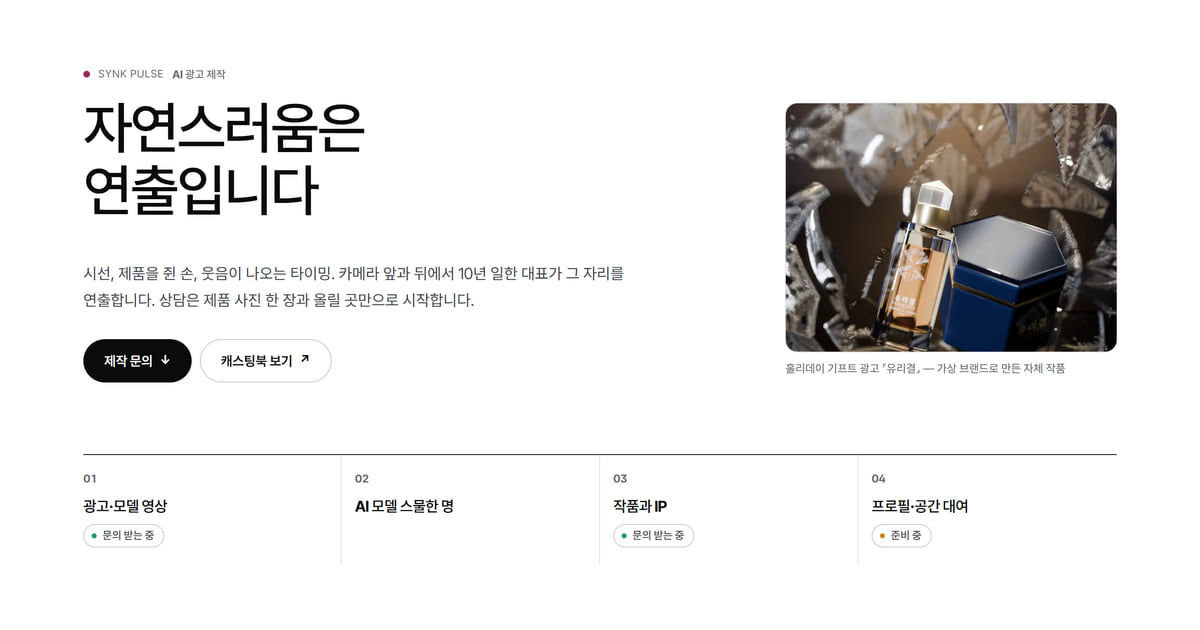
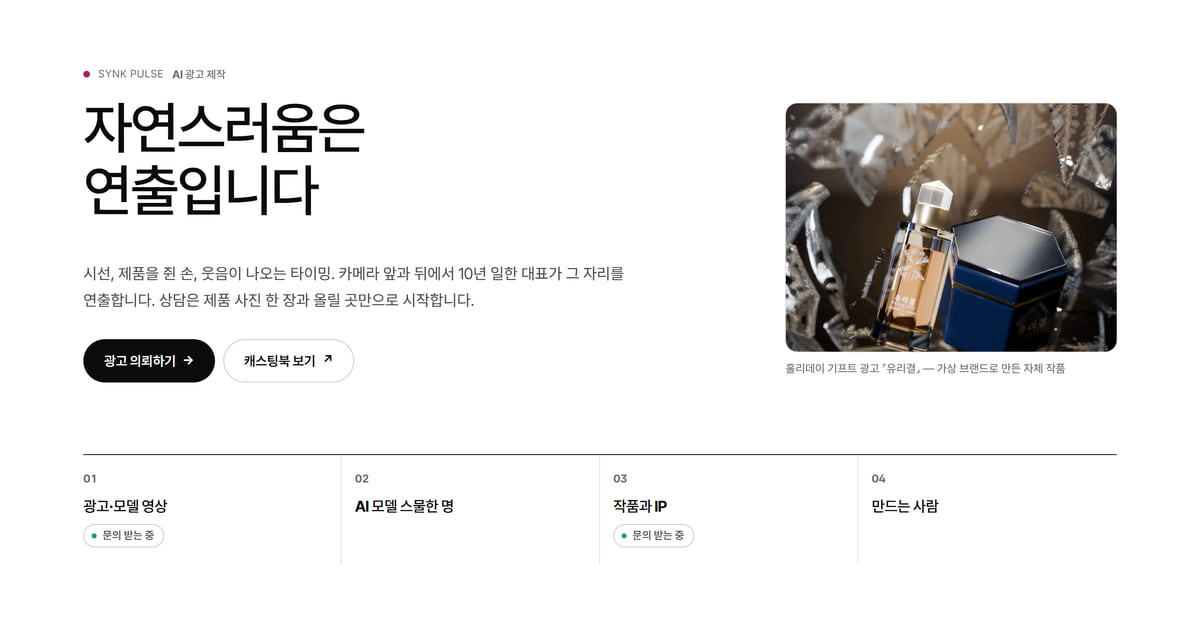
PULSE 마무리 판(2026-11-05 밤): 「이렇게 만듭니다」 1번을 「그 컷의 첫 화면」으로, 「준비 중」 구역을 작품 구역 맨 아래 한 줄로(주소 #soon과 질문창 단추는 그대로), 첫 화면 목차 04를 「만드는 사람」으로, 공유 그림 두 장을 다시 구움. 원고 SYNK-website claude/pulse-wrapup-20261105 0138bd5, 검수 synk-pulse-wrapup-1105 → 1105b(지적 1건 반영 · 마지막 0건)

Changed region(s): [[0.0925, 0.5429, 0.2775, 0.6032], [0.7092, 0.7841, 0.8017, 0.8746]]

diff --git a/pulse/index.html b/pulse/index.html
@@ -10,7 +10,7 @@
 <link rel="canonical" href="https://synk.im/pulse/">
 <link rel="alternate" hreflang="ko" href="https://synk.im/pulse/"><link rel="alternate" hreflang="en" href="https://synk.im/en/pulse/"><link rel="alternate" hreflang="x-default" href="https://synk.im/pulse/">
 <meta property="og:type" content="website"><meta property="og:url" content="https://synk.im/pulse/"><meta property="og:title" content="SYNK PULSE — 자연스러움은 연출입니다 · AI 광고 제작"><meta property="og:description" content="SYNK PULSE는 AI 광고 영상을 만듭니다. 시선과 제품을 쥔 손, 웃음이 나오는 타이밍까지 연출하고, 영상에 들어갈 모든 컷은 만들기 전에 장면 이미지로 먼저 보여 드립니다. 출연자는 AI 모델 스물한 명 가운데 캐스팅하고, 몽글·까몽·마린의 음악과 이야기도 직접 만듭니다.">
-<meta property="og:image" content="https://synk.im/assets/v10/og/pulse-ko.jpg?v=5618fc412231"><meta property="og:image:width" content="1200"><meta property="og:image:height" content="630"><meta property="og:image:alt" content="SYNK PULSE 첫 화면 — 「자연스러움은 연출입니다」와 홀리데이 기프트 광고 「유리결」의 한 장면"><meta name="twitter:card" content="summary_large_image">
+<meta property="og:image" content="https://synk.im/assets/v10/og/pulse-ko.jpg?v=250dd45f88b3"><meta property="og:image:width" content="1200"><meta property="og:image:height" content="630"><meta property="og:image:alt" content="SYNK PULSE 첫 화면 — 「자연스러움은 연출입니다」와 홀리데이 기프트 광고 「유리결」의 한 장면"><meta name="twitter:card" content="summary_large_image">
 <link rel="icon" type="image/png" sizes="16x16" href="/assets/favicon-synk-20260919-16.png"><link rel="icon" type="image/png" sizes="32x32" href="/assets/favicon-synk-20260919-32.png"><link rel="icon" type="image/png" sizes="48x48" href="/assets/favicon-synk-20260919-48.png">
 <link rel="preload" href="/assets/v10/suit-v10.woff2" as="font" type="font/woff2" crossorigin>
 <link rel="stylesheet" href="/assets/v10/site.css?v=17ad44f5ad46">
@@ -23,17 +23,17 @@
 <body data-site="pulse" data-page="pulse">
 <a class="skip" href="#main">본문으로 바로 가기</a>
 <header class="bar" data-bar><div class="bar-inner"><a class="bar-logo" href="/" aria-label="SYNK 첫 화면"><img src="/assets/opt/brand-synk-w144.webp" alt="SYNK" width="144" height="70"></a>
-<nav class="bar-nav" aria-label="주요 메뉴"><a href="#film">영상 제작</a><a href="#models">AI 모델</a><a href="#works">작품과 IP</a><a href="#soon">준비 중</a><a href="#contact">문의</a></nav><span class="bar-sep" aria-hidden="true"></span>
+<nav class="bar-nav" aria-label="주요 메뉴"><a href="#film">영상 제작</a><a href="#models">AI 모델</a><a href="#works">작품과 IP</a><a href="#contact">문의</a></nav><span class="bar-sep" aria-hidden="true"></span>
 <nav class="bar-nav bar-brands" aria-label="사업"><a href="/">SYNK</a><a href="/lab/">LAB</a><a href="/shift/">SHIFT</a><a href="/pulse/" aria-current="page">PULSE</a><a href="/path/">PATH</a></nav><span class="bar-sep" aria-hidden="true"></span>
 <div class="bar-nav bar-lang"><a href="/pulse/" hreflang="ko" lang="ko" aria-current="true">KR</a><a href="/en/pulse/" hreflang="en" lang="en">EN</a></div><a class="bar-cta" href="/account/platform.html#home">내 홈</a>
 <button class="bar-toggle" type="button" aria-expanded="false" aria-controls="bar-panel" data-bar-toggle><span></span><b class="sr-only">메뉴</b></button></div>
-<div class="bar-panel" id="bar-panel" data-bar-panel><div class="panel-group"><a href="#film">영상 제작<span aria-hidden="true">↓</span></a><a href="#models">AI 모델<span aria-hidden="true">↓</span></a><a href="#works">작품과 IP<span aria-hidden="true">↓</span></a><a href="#soon">준비 중<span aria-hidden="true">↓</span></a><a href="#contact">문의<span aria-hidden="true">↓</span></a></div><div class="panel-group"><span class="panel-label"><span class="ko">회사</span></span><a href="/#business">사업 소개<span aria-hidden="true">→</span></a><a href="/atlas/" class="has-sub"><span class="panel-text">아틀라스<small>쓸수록 나에게 맞춰지는 AI 엔진</small></span><span aria-hidden="true">→</span></a><a href="/founder/">창업자<span aria-hidden="true">→</span></a><a href="/#now">소식<span aria-hidden="true">→</span></a><a href="/#platform" class="has-sub"><span class="panel-text">플랫폼<small>SYNK 앱 모음 · PC 앱 받기</small></span><span aria-hidden="true">→</span></a><a href="/#contact">문의<span aria-hidden="true">→</span></a></div><div class="panel-group"><span class="panel-label"><span class="ko">사업</span></span><a href="/lab/" class="has-sub"><span class="panel-text">SYNK LAB<small>한국어·TOPIK 공부</small></span><span aria-hidden="true">→</span></a><a href="/shift/" class="has-sub"><span class="panel-text">SYNK SHIFT<small>AI 특강·업무 자동화</small></span><span aria-hidden="true">→</span></a><a href="/pulse/" class="has-sub"><span class="panel-text">SYNK PULSE<small>광고·영상 제작</small></span><span aria-hidden="true">→</span></a><a href="/path/" class="has-sub"><span class="panel-text">SYNK PATH<small>한국 유학·취업 준비</small></span><span aria-hidden="true">→</span></a></div><div class="panel-row"><a class="" href="/pulse/" hreflang="ko" lang="ko" aria-current="true">KR</a><a class="" href="/en/pulse/" hreflang="en" lang="en">EN</a><a class="dark" href="/account/platform.html#home">내 홈</a></div></div></header>
+<div class="bar-panel" id="bar-panel" data-bar-panel><div class="panel-group"><a href="#film">영상 제작<span aria-hidden="true">↓</span></a><a href="#models">AI 모델<span aria-hidden="true">↓</span></a><a href="#works">작품과 IP<span aria-hidden="true">↓</span></a><a href="#contact">문의<span aria-hidden="true">↓</span></a></div><div class="panel-group"><span class="panel-label"><span class="ko">회사</span></span><a href="/#business">사업 소개<span aria-hidden="true">→</span></a><a href="/atlas/" class="has-sub"><span class="panel-text">아틀라스<small>쓸수록 나에게 맞춰지는 AI 엔진</small></span><span aria-hidden="true">→</span></a><a href="/founder/">창업자<span aria-hidden="true">→</span></a><a href="/#now">소식<span aria-hidden="true">→</span></a><a href="/#platform" class="has-sub"><span class="panel-text">플랫폼<small>SYNK 앱 모음 · PC 앱 받기</small></span><span aria-hidden="true">→</span></a><a href="/#contact">문의<span aria-hidden="true">→</span></a></div><div class="panel-group"><span class="panel-label"><span class="ko">사업</span></span><a href="/lab/" class="has-sub"><span class="panel-text">SYNK LAB<small>한국어·TOPIK 공부</small></span><span aria-hidden="true">→</span></a><a href="/shift/" class="has-sub"><span class="panel-text">SYNK SHIFT<small>AI 특강·업무 자동화</small></span><span aria-hidden="true">→</span></a><a href="/pulse/" class="has-sub"><span class="panel-text">SYNK PULSE<small>광고·영상 제작</small></span><span aria-hidden="true">→</span></a><a href="/path/" class="has-sub"><span class="panel-text">SYNK PATH<small>한국 유학·취업 준비</small></span><span aria-hidden="true">→</span></a></div><div class="panel-row"><a class="" href="/pulse/" hreflang="ko" lang="ko" aria-current="true">KR</a><a class="" href="/en/pulse/" hreflang="en" lang="en">EN</a><a class="dark" href="/account/platform.html#home">내 홈</a></div></div></header>
 <main id="main">
 <section class="p-hero" id="top" aria-labelledby="p-title"><span id="pulse" class="sr-only" aria-hidden="true"></span><span id="worlds" class="sr-only" aria-hidden="true"></span><div class="wrap"><div class="p-hero-grid">
 <div class="p-hero-head"><p class="label"><i class="dot" aria-hidden="true"></i><span class="en">SYNK PULSE</span><span>AI 광고 제작</span></p><h1 class="p-title" id="p-title"><span>자연스러움은</span> <span>연출입니다</span></h1></div>
 <div class="p-hero-copy"><p class="lead">시선, 제품을 쥔 손, 웃음이 나오는 타이밍. 카메라 앞과 뒤에서 10년 일한 대표가 그 자리를 연출합니다. 상담은 제품 사진 한 장과 올릴 곳만으로 시작합니다.</p><div class="btns"><a class="btn btn-dark" href="https://workspace.synk.im/pulse-app/?start=request">광고 의뢰하기 <span class="arr" aria-hidden="true">→</span></a><a class="btn btn-line" href="/pulse/casting/">캐스팅북 보기 <span class="arr" aria-hidden="true">↗</span></a></div></div>
 <figure class="p-hero-media"><div class="p-frame"><img src="/assets/v10/pulse-work-yurigyeol-20261103.webp" srcset="/assets/v10/r/v10-pulse-work-yurigyeol-20261103-w320.webp 320w, /assets/v10/r/v10-pulse-work-yurigyeol-20261103-w480.webp 480w, /assets/v10/r/v10-pulse-work-yurigyeol-20261103-w800.webp 800w, /assets/v10/r/v10-pulse-work-yurigyeol-20261103-w1304.webp 1304w" sizes="(max-width:620px) 92vw, (max-width:900px) 560px, 400px" alt="흩날리는 유리 조각 사이에 선 「유리결」 세럼 병과 남색 육각 상자. 홀리데이 기프트 광고 「유리결」의 한 장면" width="1304" height="978" decoding="async" fetchpriority="high"></div><figcaption>홀리데이 기프트 광고 「유리결」 — 가상 브랜드로 만든 자체 작품</figcaption></figure></div>
-<nav class="p-index reveal" style="--n:4" aria-label="이 페이지에서"><a href="#film"><span class="p-index-no" aria-hidden="true">01</span><b>광고·모델 영상</b><span class="status">문의 받는 중</span></a><a href="#models"><span class="p-index-no" aria-hidden="true">02</span><b>AI 모델 스물한 명</b></a><a href="#works"><span class="p-index-no" aria-hidden="true">03</span><b>작품과 IP</b><span class="status">문의 받는 중</span></a><a href="#soon"><span class="p-index-no" aria-hidden="true">04</span><b>프로필·공간 대여</b><span class="status soon">준비 중</span></a></nav></div></section><section class="section" id="film" aria-labelledby="film-title"><span id="pulse-studio" class="sr-only" aria-hidden="true"></span><span id="pulse-purpose" class="sr-only" aria-hidden="true"></span><span id="pulse-brief" class="sr-only" aria-hidden="true"></span><span id="pulse-offer-1" class="sr-only" aria-hidden="true"></span><span id="pulse-offer-2" class="sr-only" aria-hidden="true"></span><span id="pulse-offer-3" class="sr-only" aria-hidden="true"></span><span id="pulse-offer-4" class="sr-only" aria-hidden="true"></span><div class="wrap">
+<nav class="p-index reveal" style="--n:4" aria-label="이 페이지에서"><a href="#film"><span class="p-index-no" aria-hidden="true">01</span><b>광고·모델 영상</b><span class="status">문의 받는 중</span></a><a href="#models"><span class="p-index-no" aria-hidden="true">02</span><b>AI 모델 스물한 명</b></a><a href="#works"><span class="p-index-no" aria-hidden="true">03</span><b>작품과 IP</b><span class="status">문의 받는 중</span></a><a href="#maker"><span class="p-index-no" aria-hidden="true">04</span><b>만드는 사람</b></a></nav></div></section><section class="section" id="film" aria-labelledby="film-title"><span id="pulse-studio" class="sr-only" aria-hidden="true"></span><span id="pulse-purpose" class="sr-only" aria-hidden="true"></span><span id="pulse-brief" class="sr-only" aria-hidden="true"></span><span id="pulse-offer-1" class="sr-only" aria-hidden="true"></span><span id="pulse-offer-2" class="sr-only" aria-hidden="true"></span><span id="pulse-offer-3" class="sr-only" aria-hidden="true"></span><span id="pulse-offer-4" class="sr-only" aria-hidden="true"></span><div class="wrap">
 <div class="sec-head reveal"><div><p class="label"><span class="en">Film</span><span>영상 제작</span></p><h2 class="h2" id="film-title"><span>쓸 곳에 맞춰</span> <span>기획부터 완성본까지</span></h2></div><p class="lead">어디에 쓸지, 누구에게 보여 줄지부터 정하고 만듭니다. 영상에 들어갈 모든 컷을 장면 이미지로 먼저 보여 드리고, 홈페이지·상세페이지·SNS에 바로 올릴 수 있는 규격으로 드립니다.</p></div>
 <div class="svc reveal" data-svc><div class="svc-list" aria-label="서비스"><button class="svc-tab" type="button" data-svc-tab="0" id="film-tab-1" aria-controls="film-1"><span class="mono">01</span><span class="svc-name">제품 광고</span></button><button class="svc-tab" type="button" data-svc-tab="1" id="film-tab-2" aria-controls="film-2"><span class="mono">02</span><span class="svc-name">브랜드필름·CF</span></button><button class="svc-tab" type="button" data-svc-tab="2" id="film-tab-3" aria-controls="film-3"><span class="mono">03</span><span class="svc-name">AI 모델·룩북</span></button><button class="svc-tab" type="button" data-svc-tab="3" id="film-tab-4" aria-controls="film-4"><span class="mono">04</span><span class="svc-name">서비스·사용법 영상</span></button></div><div class="svc-panels"><div class="svc-panel" id="film-1">
 <h3 class="svc-title"><span class="mono">01</span><span>제품 광고</span></h3>
@@ -57,7 +57,7 @@
 <div class="svc-flow"><p class="svc-label">예를 들면</p><p class="svc-input"><span>실제 서비스 화면<i aria-hidden="true"> ·</i></span> <span>쓰는 순서<i aria-hidden="true"> ·</i></span> <span>고객이 자주 묻는 질문</span></p><ol class="svc-steps"><li><span class="mono">01</span><span>자주 묻는 질문부터 순서를 짭니다</span></li><li><span class="mono">02</span><span>실제 화면으로 쓰는 과정을 보여 줍니다</span></li><li><span class="mono">03</span><span>안내 목소리가 잘 들리는지 확인하고 마감합니다</span></li></ol></div>
 <dl class="svc-result"><div><dt>만들어 드리는 것</dt><dd>서비스 소개·사용법 영상과 자막, 채널별 편집본</dd></div><div><dt>달라지는 점</dt><dd>고객은 영상을 보며 직접 따라 하고, 담당자는 같은 설명을 되풀이하지 않아도 됩니다.</dd></div></dl></div></div></div>
 <div class="two block-gap"><div class="two-l reveal"><h3 class="h3">이렇게 만듭니다</h3><p class="body">영상 전에 세 번 확인합니다 — 모델 고르기, 광고가 남길 한 문장과 글 콘티, 컷마다 장면 이미지.</p>
-<ol class="ticks"><li><span><b>컷마다 장면 먼저</b> — 대표 그림 한두 장이 아니라 들어갈 모든 컷을 완성 화질로 먼저 보여 드립니다. 장면 이미지는 영상의 첫 장면이라 움직이는 동안 작은 부분은 달라질 수 있고, 제품·로고·글자는 합성이라 달라지지 않습니다.</span></li><li><span><b>출연자는 캐스팅</b> — 이름과 얼굴이 정해진 AI 모델 스물한 명 가운데 고릅니다. 다음 편도 같은 모델과 같은 자막 규격으로 잇습니다.</span></li><li><span><b>제품·로고·화면 위 글자는 진짜로</b> — 다시 그리지 않고 보내 주신 사진과 파일로 합성해, 글자가 뭉개지거나 로고가 바뀌지 않습니다.</span></li><li><span><b>무엇으로 남길지 먼저</b> — 이야기로 여운을 남길지, 한 장면의 임팩트로 남길지 기획 첫 줄에 정합니다.</span></li><li><span><b>소리부터</b> — 목소리와 음악을 먼저 만들고 그 박자에 컷을 맞춥니다. 못 나온 컷은 보정으로 덮지 않고 다시 만듭니다.</span></li></ol></div>
+<ol class="ticks"><li><span><b>컷마다 장면 먼저</b> — 대표 그림 한두 장이 아니라 들어갈 모든 컷을 완성 화질로 먼저 보여 드립니다. 장면 이미지는 그 컷의 첫 화면이라 움직이는 동안 작은 부분은 달라질 수 있고, 제품·로고·글자는 합성이라 달라지지 않습니다.</span></li><li><span><b>출연자는 캐스팅</b> — 이름과 얼굴이 정해진 AI 모델 스물한 명 가운데 고릅니다. 다음 편도 같은 모델과 같은 자막 규격으로 잇습니다.</span></li><li><span><b>제품·로고·화면 위 글자는 진짜로</b> — 다시 그리지 않고 보내 주신 사진과 파일로 합성해, 글자가 뭉개지거나 로고가 바뀌지 않습니다.</span></li><li><span><b>무엇으로 남길지 먼저</b> — 이야기로 여운을 남길지, 한 장면의 임팩트로 남길지 기획 첫 줄에 정합니다.</span></li><li><span><b>소리부터</b> — 목소리와 음악을 먼저 만들고 그 박자에 컷을 맞춥니다. 못 나온 컷은 보정으로 덮지 않고 다시 만듭니다.</span></li></ol></div>
 <div class="panel two-r reveal"><h3 class="h3">의뢰는 여섯 가지를 정리하는 데서 시작합니다</h3><ol class="ticks"><li><span>브랜드와 영상의 목적</span></li><li><span>보여 줄 고객과 꼭 전할 메시지</span></li><li><span>분위기와 모델, 넣을 장면</span></li><li><span>올릴 채널과 광고 여부</span></li><li><span>가진 사진·영상·로고와 기준 사진</span></li><li><span>분량과 일정</span></li></ol>
 <p class="pulse-go"><a class="link" href="https://docs.google.com/forms/d/e/1FAIpQLSc4Z1BdhPxMi0bWP7enSganI4xCIsTcCxRJ8EpxiWRxyVfsIg/viewform?usp=pp_url&amp;entry.1425474537=PULSE%20%C2%B7%20%EC%A0%9C%EC%9E%91%20%ED%98%91%EC%97%85%C2%B7%EC%9E%91%ED%92%88%20%EC%9D%B4%EC%9A%A9%C2%B7%EA%B4%91%EA%B3%A0&amp;entry.1372278933=%EC%95%84%EB%8A%94%20%EA%B2%83%EB%A7%8C%20%EC%A0%81%EC%96%B4%20%EC%A3%BC%EC%85%94%EB%8F%84%20%EB%90%A9%EB%8B%88%EB%8B%A4.%0A%0A1.%20%EB%B8%8C%EB%9E%9C%EB%93%9C%EC%99%80%20%EC%98%81%EC%83%81%EC%9D%98%20%EB%AA%A9%EC%A0%81%3A%20%0A2.%20%EB%B3%B4%EC%97%AC%20%EC%A4%84%20%EA%B3%A0%EA%B0%9D%EA%B3%BC%20%EA%BC%AD%20%EC%A0%84%ED%95%A0%20%EB%A9%94%EC%8B%9C%EC%A7%80%3A%20%0A3.%20%EB%B6%84%EC%9C%84%EA%B8%B0%EC%99%80%20%EB%AA%A8%EB%8D%B8%2C%20%EB%84%A3%EC%9D%84%20%EC%9E%A5%EB%A9%B4%3A%20%0A4.%20%EC%98%AC%EB%A6%B4%20%EC%B1%84%EB%84%90%EA%B3%BC%20%EA%B4%91%EA%B3%A0%20%EC%97%AC%EB%B6%80%3A%20%0A5.%20%EA%B0%80%EC%A7%84%20%EC%82%AC%EC%A7%84%C2%B7%EC%98%81%EC%83%81%C2%B7%EB%A1%9C%EA%B3%A0%EC%99%80%20%EA%B8%B0%EC%A4%80%20%EC%82%AC%EC%A7%84%3A%20%0A6.%20%EB%B6%84%EB%9F%89%EA%B3%BC%20%EC%9D%BC%EC%A0%95%3A%20" target="_blank" rel="noopener">여섯 칸이 적힌 의뢰 양식 열기 <span class="arr" aria-hidden="true">↗</span></a></p></div></div>
 <div class="panel block-gap reveal"><h3 class="h3">맡긴 뒤에는 한곳에서 함께 만듭니다</h3><p class="body">담당자가 보내 드리는 초대 링크 하나로 시안을 보고 의견을 남기고, 최종 파일까지 받습니다.</p>
@@ -73,9 +73,7 @@
 <div class="scenes" style="--n:3"><div class="scene reveal"><figure><img src="/assets/v10/pulse-work-yurigyeol-20261103.webp" srcset="/assets/v10/r/v10-pulse-work-yurigyeol-20261103-w320.webp 320w, /assets/v10/r/v10-pulse-work-yurigyeol-20261103-w480.webp 480w, /assets/v10/r/v10-pulse-work-yurigyeol-20261103-w800.webp 800w, /assets/v10/r/v10-pulse-work-yurigyeol-20261103-w1304.webp 1304w" sizes="(max-width:900px) 92vw, 400px" alt="흩날리는 유리 조각 사이에 선 「유리결」 세럼 병과 남색 육각 상자. 홀리데이 기프트 광고 「유리결」의 한 장면" width="1304" height="978" loading="lazy" decoding="async"></figure><span class="mono">PRODUCT</span><h3>홀리데이 기프트 「유리결」</h3><p>가상 스킨케어 브랜드 「유리결」의 홀리데이 세트를 흩날리는 유리 조각 사이에서 보여 주는 15초 광고입니다. 한 장면의 임팩트로 기억에 남게 만들었습니다.</p></div><div class="scene reveal"><figure><img src="/assets/v10/pulse-work-maejin-20261103.webp" srcset="/assets/v10/r/v10-pulse-work-maejin-20261103-w320.webp 320w, /assets/v10/r/v10-pulse-work-maejin-20261103-w480.webp 480w, /assets/v10/r/v10-pulse-work-maejin-20261103-w800.webp 800w, /assets/v10/r/v10-pulse-work-maejin-20261103-w1200.webp 1200w, /assets/v10/r/v10-pulse-work-maejin-20261103-w1360.webp 1360w" sizes="(max-width:900px) 92vw, 400px" alt="어두운 거실에서 복면을 쓴 남자가 리본 묶은 선물 상자를 들고 서 있는 장면. 광고 「매진 임박」의 끝 장면" width="1360" height="1020" loading="lazy" decoding="async"></figure><span class="mono">COMEDY</span><h3>「매진 임박」</h3><p>공포 영화 같은 밤에 홈쇼핑 방송이 끼어드는 1분 13초 코미디 광고입니다. 이야기로 끝까지 보게 만들었습니다.</p></div><div class="scene reveal"><figure><img src="/assets/v10/pulse-work-hwaseong-cf-20261022.webp" srcset="/assets/v10/r/v10-pulse-work-hwaseong-cf-20261022-w320.webp 320w, /assets/v10/r/v10-pulse-work-hwaseong-cf-20261022-w480.webp 480w, /assets/v10/r/v10-pulse-work-hwaseong-cf-20261022-w800.webp 800w, /assets/v10/r/v10-pulse-work-hwaseong-cf-20261022-w1200.webp 1200w, /assets/v10/pulse-work-hwaseong-cf-20261022.webp 1600w" sizes="(max-width:900px) 92vw, 400px" alt="금빛이 새어 나오는 공룡알 화석. 화성 CF 「1억 년의 빛」의 첫 장면" width="1600" height="1200" loading="lazy" decoding="async"></figure><span class="mono">CF</span><h3>화성 CF 「1억 년의 빛」</h3><p>1억 년 전 공룡알의 빛이 바다의 노을과 솔숲의 햇무리를 지나 오늘의 도시 불빛으로 이어지는 55초 CF입니다. 2026 별별화성 Awards AI CF 부문에 출품했습니다.</p><p><a class="link" href="https://youtu.be/dIittvXfdIE" target="_blank" rel="noopener">영상 보기 <span class="arr" aria-hidden="true">↗</span></a></p></div></div>
 <div class="panel works-ad reveal" id="maker"><h3 class="h3">카메라 앞에 서 본 사람이 AI 모델의 연기를 연출합니다</h3><p class="body">AI 광고가 어색해지는 곳은 대개 표정과 호흡, 말이 끝나는 타이밍입니다. SYNK PULSE는 엔터테인먼트·광고 업계에서 10년 일한 대표 유호가 연출합니다.</p><p class="note">넷플릭스 공개 「보라! 데보라」 1화 오프닝 시퀀스 출연 · tvN 「코미디빅리그」 코너 출연 · 부활 「너의 모습」 뮤직비디오 주연</p></div>
 <div class="panel works-ad reveal" id="works-music"><h3 class="h3">몽글·까몽·마린의 음악과 이야기도 만듭니다</h3><p class="body">일상에서 편하게 듣는 음악과 세 캐릭터의 짧은 이야기를 만들고, 이 음악과 캐릭터로 브랜드를 소개하는 광고도 함께 만듭니다. 작품을 쓰거나 함께 만들 때는 목적과 매체, 기간, 권리와 사용 조건, 필요한 광고 표기를 먼저 정합니다.</p></div>
-</div></section><section class="section" id="soon" aria-labelledby="soon-title"><span id="pulse-profile" class="sr-only" aria-hidden="true"></span><span id="pulse-rental" class="sr-only" aria-hidden="true"></span><div class="wrap">
-<div class="sec-head solo reveal"><div><p class="label"><span class="en">Coming</span><span>준비하는 일</span></p><h2 class="h2" id="soon-title"><span>준비하고 있는 서비스</span></h2></div></div>
-<ul class="cards reveal" style="--n:2"><li><span class="status soon">준비 중</span><h3>AI 프로필·소개 자료</h3><p>대표·강사·프리랜서를 위해, 가진 사진으로 AI 프로필 사진을 만들고 소개글을 PPT로 정리합니다. 바로 보여 줄 완성본과 계속 고쳐 쓸 편집용 양식을 함께 드립니다.</p><p class="small">본인 또는 제작에 동의한 성인의 사진만 씁니다. 수량·수정 범위·가격은 판매 전에 정합니다.</p></li><li><span class="status soon">준비 중</span><h3>스튜디오·장비 대여</h3><p>영상과 사진을 찍거나 강의, 작은 행사를 직접 여는 분들이 공간과 카메라·조명·음향 장비를 예약해 쓸 수 있게 준비하고 있습니다.</p><p class="small">지금은 예약을 받지 않습니다. 장소와 장비, 요금은 정해지면 알려 드립니다.</p></li></ul>
+<p class="note reveal" id="soon"><span id="pulse-profile" class="sr-only" aria-hidden="true"></span><span id="pulse-rental" class="sr-only" aria-hidden="true"></span><span class="status soon">준비 중</span>&nbsp; AI 프로필 사진·소개 자료, 스튜디오·장비 대여</p>
 </div></section>
 <section class="section" id="contact" aria-labelledby="contact-title"><span id="contact-web" class="sr-only" aria-hidden="true"></span><span id="contact-pulse" class="sr-only" aria-hidden="true"></span><div class="wrap"><div class="ask reveal">
 <div class="ask-intro"><p class="label"><span class="en">Ask SYNK</span></p><h2 class="h2" id="contact-title"><span>궁금한 것을 물어보세요</span></h2><p class="lead">공개한 안내 안에서 바로 답합니다. 상담이나 협업 제안은 담당자에게 보내 주세요.</p></div>

diff --git a/en/pulse/index.html b/en/pulse/index.html
@@ -10,7 +10,7 @@
 <link rel="canonical" href="https://synk.im/en/pulse/">
 <link rel="alternate" hreflang="ko" href="https://synk.im/pulse/"><link rel="alternate" hreflang="en" href="https://synk.im/en/pulse/"><link rel="alternate" hreflang="x-default" href="https://synk.im/pulse/">
 <meta property="og:type" content="website"><meta property="og:url" content="https://synk.im/en/pulse/"><meta property="og:title" content="SYNK PULSE — Natural is directed · AI ad production"><meta property="og:description" content="SYNK PULSE makes AI video ads. We direct the glance, the hand holding the product and the timing of a smile, and before we make the video we show you every cut as a scene image. The cast comes from our twenty-one AI models, and we also create the music and stories of Mongle, Kkamong and Marin.">
-<meta property="og:image" content="https://synk.im/assets/v10/og/pulse-en.jpg?v=83cb39c3cb5d"><meta property="og:image:width" content="1200"><meta property="og:image:height" content="630"><meta property="og:image:alt" content="The SYNK PULSE page: “Natural is directed” beside a scene from the holiday gift ad “Yurigyeol”"><meta name="twitter:card" content="summary_large_image">
+<meta property="og:image" content="https://synk.im/assets/v10/og/pulse-en.jpg?v=8ad5b2cd4f71"><meta property="og:image:width" content="1200"><meta property="og:image:height" content="630"><meta property="og:image:alt" content="The SYNK PULSE page: “Natural is directed” beside a scene from the holiday gift ad “Yurigyeol”"><meta name="twitter:card" content="summary_large_image">
 <link rel="icon" type="image/png" sizes="16x16" href="/assets/favicon-synk-20260919-16.png"><link rel="icon" type="image/png" sizes="32x32" href="/assets/favicon-synk-20260919-32.png"><link rel="icon" type="image/png" sizes="48x48" href="/assets/favicon-synk-20260919-48.png">
 <link rel="preload" href="/assets/v10/suit-v10.woff2" as="font" type="font/woff2" crossorigin>
 <link rel="stylesheet" href="/assets/v10/site.css?v=17ad44f5ad46">
@@ -22,17 +22,17 @@
 <body data-site="pulse" data-page="pulse">
 <a class="skip" href="#main">Skip to main content</a>
 <header class="bar" data-bar><div class="bar-inner"><a class="bar-logo" href="/en/" aria-label="SYNK home"><img src="/assets/opt/brand-synk-w144.webp" alt="SYNK" width="144" height="70"></a>
-<nav class="bar-nav" aria-label="Main"><a href="#film">Video</a><a href="#models">AI models</a><a href="#works">Works &amp; IP</a><a href="#soon">In preparation</a><a href="#contact">Contact</a></nav><span class="bar-sep" aria-hidden="true"></span>
+<nav class="bar-nav" aria-label="Main"><a href="#film">Video</a><a href="#models">AI models</a><a href="#works">Works &amp; IP</a><a href="#contact">Contact</a></nav><span class="bar-sep" aria-hidden="true"></span>
 <nav class="bar-nav bar-brands" aria-label="Businesses"><a href="/en/">SYNK</a><a href="/en/lab/">LAB</a><a href="/en/shift/">SHIFT</a><a href="/en/pulse/" aria-current="page">PULSE</a><a href="/en/path/">PATH</a></nav><span class="bar-sep" aria-hidden="true"></span>
 <div class="bar-nav bar-lang"><a href="/pulse/" hreflang="ko" lang="ko">KR</a><a href="/en/pulse/" hreflang="en" lang="en" aria-current="true">EN</a></div><a class="bar-cta" href="/account/platform.html#home">My home</a>
 <button class="bar-toggle" type="button" aria-expanded="false" aria-controls="bar-panel" data-bar-toggle><span></span><b class="sr-only">Menu</b></button></div>
-<div class="bar-panel" id="bar-panel" data-bar-panel><div class="panel-group"><a href="#film">Video<span aria-hidden="true">↓</span></a><a href="#models">AI models<span aria-hidden="true">↓</span></a><a href="#works">Works &amp; IP<span aria-hidden="true">↓</span></a><a href="#soon">In preparation<span aria-hidden="true">↓</span></a><a href="#contact">Contact<span aria-hidden="true">↓</span></a></div><div class="panel-group"><span class="panel-label">Company</span><a href="/en/#business">What we do<span aria-hidden="true">→</span></a><a href="/en/atlas/" class="has-sub"><span class="panel-text">Atlas<small>The AI engine that fits you as you use it</small></span><span aria-hidden="true">→</span></a><a href="/en/founder/">Founder<span aria-hidden="true">→</span></a><a href="/en/#now">News<span aria-hidden="true">→</span></a><a href="/en/#platform" class="has-sub"><span class="panel-text">Platform<small>SYNK apps in one place · get the PC app</small></span><span aria-hidden="true">→</span></a><a href="/en/#contact">Contact<span aria-hidden="true">→</span></a></div><div class="panel-group"><span class="panel-label">Businesses</span><a href="/en/lab/" class="has-sub"><span class="panel-text">SYNK LAB<small>Learn Korean &amp; TOPIK</small></span><span aria-hidden="true">→</span></a><a href="/en/shift/" class="has-sub"><span class="panel-text">SYNK SHIFT<small>AI lectures &amp; automation</small></span><span aria-hidden="true">→</span></a><a href="/en/pulse/" class="has-sub"><span class="panel-text">SYNK PULSE<small>Ads &amp; video</small></span><span aria-hidden="true">→</span></a><a href="/en/path/" class="has-sub"><span class="panel-text">SYNK PATH<small>Study or work in Korea</small></span><span aria-hidden="true">→</span></a></div><div class="panel-row"><a class="" href="/pulse/" hreflang="ko" lang="ko">KR</a><a class="" href="/en/pulse/" hreflang="en" lang="en" aria-current="true">EN</a><a class="dark" href="/account/platform.html#home">My home</a></div></div></header>
+<div class="bar-panel" id="bar-panel" data-bar-panel><div class="panel-group"><a href="#film">Video<span aria-hidden="true">↓</span></a><a href="#models">AI models<span aria-hidden="true">↓</span></a><a href="#works">Works &amp; IP<span aria-hidden="true">↓</span></a><a href="#contact">Contact<span aria-hidden="true">↓</span></a></div><div class="panel-group"><span class="panel-label">Company</span><a href="/en/#business">What we do<span aria-hidden="true">→</span></a><a href="/en/atlas/" class="has-sub"><span class="panel-text">Atlas<small>The AI engine that fits you as you use it</small></span><span aria-hidden="true">→</span></a><a href="/en/founder/">Founder<span aria-hidden="true">→</span></a><a href="/en/#now">News<span aria-hidden="true">→</span></a><a href="/en/#platform" class="has-sub"><span class="panel-text">Platform<small>SYNK apps in one place · get the PC app</small></span><span aria-hidden="true">→</span></a><a href="/en/#contact">Contact<span aria-hidden="true">→</span></a></div><div class="panel-group"><span class="panel-label">Businesses</span><a href="/en/lab/" class="has-sub"><span class="panel-text">SYNK LAB<small>Learn Korean &amp; TOPIK</small></span><span aria-hidden="true">→</span></a><a href="/en/shift/" class="has-sub"><span class="panel-text">SYNK SHIFT<small>AI lectures &amp; automation</small></span><span aria-hidden="true">→</span></a><a href="/en/pulse/" class="has-sub"><span class="panel-text">SYNK PULSE<small>Ads &amp; video</small></span><span aria-hidden="true">→</span></a><a href="/en/path/" class="has-sub"><span class="panel-text">SYNK PATH<small>Study or work in Korea</small></span><span aria-hidden="true">→</span></a></div><div class="panel-row"><a class="" href="/pulse/" hreflang="ko" lang="ko">KR</a><a class="" href="/en/pulse/" hreflang="en" lang="en" aria-current="true">EN</a><a class="dark" href="/account/platform.html#home">My home</a></div></div></header>
 <main id="main">
 <section class="p-hero" id="top" aria-labelledby="p-title"><span id="pulse" class="sr-only" aria-hidden="true"></span><span id="worlds" class="sr-only" aria-hidden="true"></span><div class="wrap"><div class="p-hero-grid">
 <div class="p-hero-head"><p class="label"><i class="dot" aria-hidden="true"></i><span class="en">SYNK PULSE</span><span>AI ad production</span></p><h1 class="p-title" id="p-title"><span>Natural is</span> <span>directed</span></h1></div>
 <div class="p-hero-copy"><p class="lead">The glance, the hand holding the product, the timing of a smile. A founder with ten years in front of and behind the camera directs every one of those details. A first conversation needs just one product photo and where the ad will run.</p><div class="btns"><a class="btn btn-dark" href="#contact">Ask about an ad <span class="arr" aria-hidden="true">↓</span></a><a class="btn btn-line" href="/pulse/casting/">Casting book (Korean) <span class="arr" aria-hidden="true">↗</span></a></div></div>
 <figure class="p-hero-media"><div class="p-frame"><img src="/assets/v10/pulse-work-yurigyeol-20261103.webp" srcset="/assets/v10/r/v10-pulse-work-yurigyeol-20261103-w320.webp 320w, /assets/v10/r/v10-pulse-work-yurigyeol-20261103-w480.webp 480w, /assets/v10/r/v10-pulse-work-yurigyeol-20261103-w800.webp 800w, /assets/v10/r/v10-pulse-work-yurigyeol-20261103-w1304.webp 1304w" sizes="(max-width:620px) 92vw, (max-width:900px) 560px, 400px" alt="A “Yurigyeol” serum bottle and a navy hexagonal box among drifting glass shards, a scene from the holiday gift ad “Yurigyeol”" width="1304" height="978" decoding="async" fetchpriority="high"></div><figcaption>Holiday gift ad “Yurigyeol” — our own work for a fictional brand</figcaption></figure></div>
-<nav class="p-index reveal" style="--n:4" aria-label="On this page"><a href="#film"><span class="p-index-no" aria-hidden="true">01</span><b>Ads and model videos</b><span class="status">Taking enquiries</span></a><a href="#models"><span class="p-index-no" aria-hidden="true">02</span><b>Twenty-one AI models</b></a><a href="#works"><span class="p-index-no" aria-hidden="true">03</span><b>Works and IP</b><span class="status">Taking enquiries</span></a><a href="#soon"><span class="p-index-no" aria-hidden="true">04</span><b>Profiles and studio rental</b><span class="status soon">In preparation</span></a></nav></div></section><section class="section" id="film" aria-labelledby="film-title"><span id="pulse-studio" class="sr-only" aria-hidden="true"></span><span id="pulse-purpose" class="sr-only" aria-hidden="true"></span><span id="pulse-brief" class="sr-only" aria-hidden="true"></span><span id="pulse-offer-1" class="sr-only" aria-hidden="true"></span><span id="pulse-offer-2" class="sr-only" aria-hidden="true"></span><span id="pulse-offer-3" class="sr-only" aria-hidden="true"></span><span id="pulse-offer-4" class="sr-only" aria-hidden="true"></span><div class="wrap">
+<nav class="p-index reveal" style="--n:4" aria-label="On this page"><a href="#film"><span class="p-index-no" aria-hidden="true">01</span><b>Ads and model videos</b><span class="status">Taking enquiries</span></a><a href="#models"><span class="p-index-no" aria-hidden="true">02</span><b>Twenty-one AI models</b></a><a href="#works"><span class="p-index-no" aria-hidden="true">03</span><b>Works and IP</b><span class="status">Taking enquiries</span></a><a href="#maker"><span class="p-index-no" aria-hidden="true">04</span><b>Who directs</b></a></nav></div></section><section class="section" id="film" aria-labelledby="film-title"><span id="pulse-studio" class="sr-only" aria-hidden="true"></span><span id="pulse-purpose" class="sr-only" aria-hidden="true"></span><span id="pulse-brief" class="sr-only" aria-hidden="true"></span><span id="pulse-offer-1" class="sr-only" aria-hidden="true"></span><span id="pulse-offer-2" class="sr-only" aria-hidden="true"></span><span id="pulse-offer-3" class="sr-only" aria-hidden="true"></span><span id="pulse-offer-4" class="sr-only" aria-hidden="true"></span><div class="wrap">
 <div class="sec-head reveal"><div><p class="label"><span class="en">Film</span></p><h2 class="h2" id="film-title"><span>From plan to final cut,</span> <span>made for where it runs</span></h2></div><p class="lead">We start with where it will be used and who will see it. We show you every cut as a scene image before the video, and deliver files sized for your website, product pages and social channels.</p></div>
 <div class="svc reveal" data-svc><div class="svc-list" aria-label="Services"><button class="svc-tab" type="button" data-svc-tab="0" id="film-tab-1" aria-controls="film-1"><span class="mono">01</span><span class="svc-name">Product ads</span></button><button class="svc-tab" type="button" data-svc-tab="1" id="film-tab-2" aria-controls="film-2"><span class="mono">02</span><span class="svc-name">Brand films and commercials</span></button><button class="svc-tab" type="button" data-svc-tab="2" id="film-tab-3" aria-controls="film-3"><span class="mono">03</span><span class="svc-name">AI models and lookbooks</span></button><button class="svc-tab" type="button" data-svc-tab="3" id="film-tab-4" aria-controls="film-4"><span class="mono">04</span><span class="svc-name">Service and how-to videos</span></button></div><div class="svc-panels"><div class="svc-panel" id="film-1">
 <h3 class="svc-title"><span class="mono">01</span><span>Product ads</span></h3>
@@ -72,9 +72,7 @@
 <div class="scenes" style="--n:3"><div class="scene reveal"><figure><img src="/assets/v10/pulse-work-yurigyeol-20261103.webp" srcset="/assets/v10/r/v10-pulse-work-yurigyeol-20261103-w320.webp 320w, /assets/v10/r/v10-pulse-work-yurigyeol-20261103-w480.webp 480w, /assets/v10/r/v10-pulse-work-yurigyeol-20261103-w800.webp 800w, /assets/v10/r/v10-pulse-work-yurigyeol-20261103-w1304.webp 1304w" sizes="(max-width:900px) 92vw, 400px" alt="A “Yurigyeol” serum bottle and a navy hexagonal box among drifting glass shards, a scene from the holiday gift ad “Yurigyeol”" width="1304" height="978" loading="lazy" decoding="async"></figure><span class="mono">PRODUCT</span><h3>Holiday gift “Yurigyeol”</h3><p>A 15-second ad showing the holiday set of “Yurigyeol”, a fictional skincare brand, among drifting glass shards. Made to stay with you through one striking image.</p></div><div class="scene reveal"><figure><img src="/assets/v10/pulse-work-maejin-20261103.webp" srcset="/assets/v10/r/v10-pulse-work-maejin-20261103-w320.webp 320w, /assets/v10/r/v10-pulse-work-maejin-20261103-w480.webp 480w, /assets/v10/r/v10-pulse-work-maejin-20261103-w800.webp 800w, /assets/v10/r/v10-pulse-work-maejin-20261103-w1200.webp 1200w, /assets/v10/r/v10-pulse-work-maejin-20261103-w1360.webp 1360w" sizes="(max-width:900px) 92vw, 400px" alt="A masked man holding a gift box tied with a ribbon in a dark living room, the last shot of the ad “Almost Sold Out”" width="1360" height="1020" loading="lazy" decoding="async"></figure><span class="mono">COMEDY</span><h3>“Almost Sold Out”</h3><p>A 1-minute-13-second comedy ad in which a home-shopping broadcast cuts into a horror-movie night. Made to keep you watching through a story.</p></div><div class="scene reveal"><figure><img src="/assets/v10/pulse-work-hwaseong-cf-20261022.webp" srcset="/assets/v10/r/v10-pulse-work-hwaseong-cf-20261022-w320.webp 320w, /assets/v10/r/v10-pulse-work-hwaseong-cf-20261022-w480.webp 480w, /assets/v10/r/v10-pulse-work-hwaseong-cf-20261022-w800.webp 800w, /assets/v10/r/v10-pulse-work-hwaseong-cf-20261022-w1200.webp 1200w, /assets/v10/pulse-work-hwaseong-cf-20261022.webp 1600w" sizes="(max-width:900px) 92vw, 400px" alt="A fossil dinosaur egg with golden light seeping out, the first shot of the Hwaseong commercial “100 Million Years of Light”" width="1600" height="1200" loading="lazy" decoding="async"></figure><span class="mono">COMMERCIAL</span><h3>Hwaseong commercial “100 Million Years of Light”</h3><p>A 55-second commercial in which the glow of a dinosaur egg from 100 million years ago passes through a sunset over the sea and the halo in a pine forest to become today’s city lights. Entered in the AI CF category of the 2026 Byeolbyeol Hwaseong Awards.</p><p><a class="link" href="https://youtu.be/dIittvXfdIE" target="_blank" rel="noopener">Watch the film <span class="arr" aria-hidden="true">↗</span></a></p></div></div>
 <div class="panel works-ad reveal" id="maker"><h3 class="h3">Directed by someone who has acted in front of the camera</h3><p class="body">AI ads usually feel off in the expressions, the breathing and the moment a line ends. SYNK PULSE is directed by our founder Yuho, who has spent ten years in entertainment and advertising.</p><p class="note">Appeared in the opening sequence of episode 1 of “Bora! Deborah”, released on Netflix · Appeared in a segment of tvN’s “Comedy Big League” · Lead role in Boohwal’s “Neoui Moseup” music video</p></div>
 <div class="panel works-ad reveal" id="works-music"><h3 class="h3">We also make music and stories with Mongle, Kkamong and Marin</h3><p class="body">We create relaxed music for everyday listening and short stories with the three characters, and use that music and those characters in ads that introduce brands. To license our work or create with us, we agree purpose, media, period, rights, usage terms and any required ad labelling first.</p></div>
-</div></section><section class="section" id="soon" aria-labelledby="soon-title"><span id="pulse-profile" class="sr-only" aria-hidden="true"></span><span id="pulse-rental" class="sr-only" aria-hidden="true"></span><div class="wrap">
-<div class="sec-head solo reveal"><div><p class="label"><span class="en">In preparation</span></p><h2 class="h2" id="soon-title"><span>Services we are preparing</span></h2></div></div>
-<ul class="cards reveal" style="--n:2"><li><span class="status soon">In preparation</span><h3>AI profiles and introduction decks</h3><p>For business owners, trainers and freelancers: AI profile photos made from your own pictures, and your introduction laid out as a slide deck — a finished version to show and an editable template to keep using.</p><p class="small">We only use photos of the person themselves or of adults who agreed to it. Quantity, revisions and price will be set before launch.</p></li><li><span class="status soon">In preparation</span><h3>Studio and equipment rental</h3><p>We are preparing a space and camera, lighting and sound gear that you can book for shoots, classes and small events.</p><p class="small">We are not taking bookings yet. Location, equipment and prices will be announced.</p></li></ul>
+<p class="note reveal" id="soon"><span id="pulse-profile" class="sr-only" aria-hidden="true"></span><span id="pulse-rental" class="sr-only" aria-hidden="true"></span><span class="status soon">In preparation</span>&nbsp; AI profile photos and introduction decks, studio and equipment rental</p>
 </div></section>
 <section class="section" id="contact" aria-labelledby="contact-title"><span id="contact-web" class="sr-only" aria-hidden="true"></span><span id="contact-pulse" class="sr-only" aria-hidden="true"></span><div class="wrap"><div class="ask reveal">
 <div class="ask-intro"><p class="label"><span class="en">Ask SYNK</span></p><h2 class="h2" id="contact-title"><span>Ask us anything</span></h2><p class="lead">Answers come from what we have published about SYNK. For consultations or collaboration proposals, write to our team directly.</p></div>
